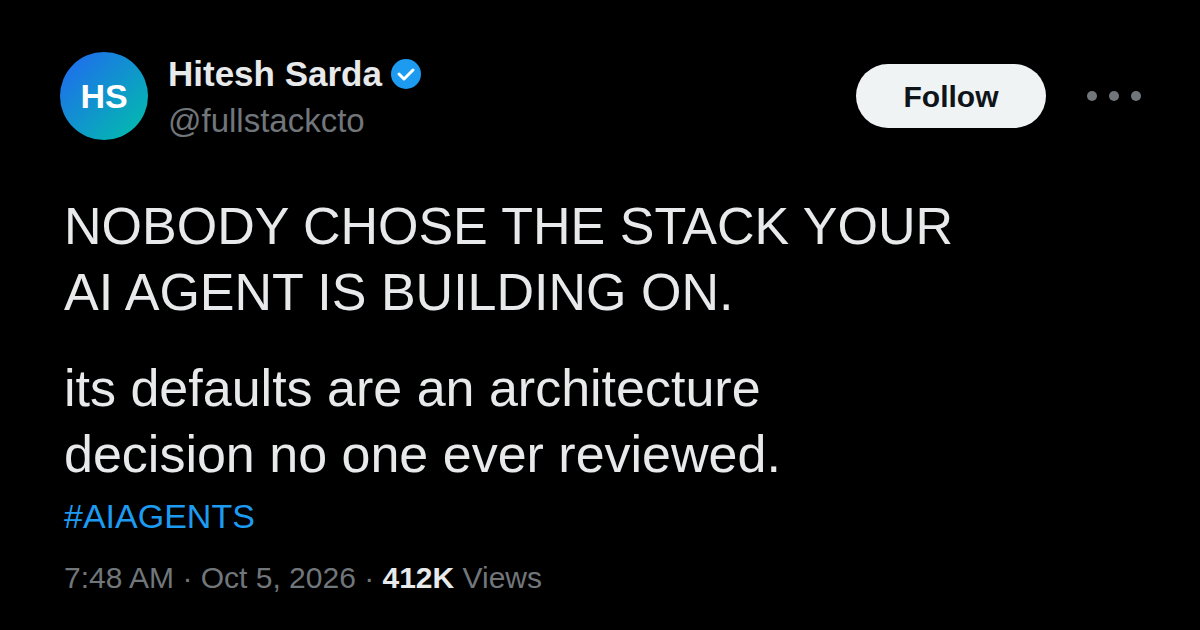
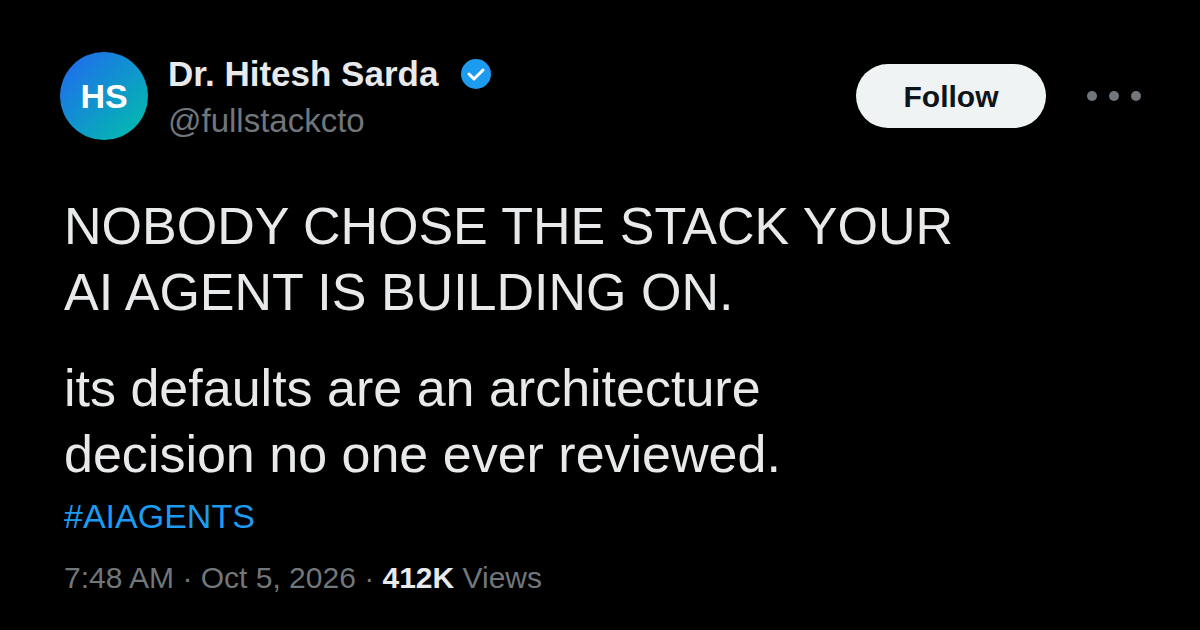
Add Dr. to the author name on site title, home hero, about, book page and cover template
Claude-Session: https://claude.ai/code/session_01KArfLjG9ZUrFgaQKNQHqEH

Changed region(s): [[0.1233, 0.0905, 0.4317, 0.1508]]

diff --git a/themes/hitesh/layouts/book/single.html b/themes/hitesh/layouts/book/single.html
@@ -89,8 +89,8 @@
     <div class="container">
       <div class="book-author-card">
         <h2 class="book-author-title">About the author</h2>
-        <p>Hitesh Sarda is an AI advisor and the founder of 256 Technologies, an applied AI lab in Hyderabad. He has spent 25+ years building production systems, including work at Citi, Virtusa, Yash, and ValueLabs, and has been writing here since 2009.</p>
-        <p><a href="/about/">More about Hitesh</a> &middot; <a href="/work-with-me/">Book an advisory hour</a></p>
+        <p>Dr. Hitesh Sarda is an AI advisor and the founder of 256 Technologies, an applied AI lab in Hyderabad. He has spent 25+ years building production systems, including work at Citi, Virtusa, Yash, and ValueLabs, and has been writing here since 2009.</p>
+        <p><a href="/about/">More about Dr. Hitesh</a> &middot; <a href="/work-with-me/">Book an advisory hour</a></p>
       </div>
     </div>
   </section>

diff --git a/themes/hitesh/layouts/index.html b/themes/hitesh/layouts/index.html
@@ -8,7 +8,7 @@
           <span class="hero-dot"></span>
           AI Advisor &nbsp;&middot;&nbsp; Founder, 256 Technologies
         </p>
-        <h1 class="hero-name">Hitesh<br>Sarda</h1>
+        <h1 class="hero-name">Dr. Hitesh<br>Sarda</h1>
         <p class="hero-bio">
           I help leadership teams cut through AI hype and make evidence-based decisions: what is feasible, what the ROI really is, and the smallest pilot that proves it. 25+ years building production systems, including work at Citi, Virtusa, Yash, and ValueLabs. Today I run 256 Technologies, an applied AI lab in Hyderabad, and I have been writing here since 2009.
         </p>

diff --git a/content/about/index.md b/content/about/index.md
@@ -3,7 +3,7 @@ title: "About"
 draft: false
 ---
 
-I work at the intersection of AI research, practical engineering, and business outcomes — helping leadership teams navigate AI adoption with clarity and confidence.
+I am Dr. Hitesh Sarda. I work at the intersection of AI research, practical engineering, and business outcomes — helping leadership teams navigate AI adoption with clarity and confidence.
 
 My focus is on **Retail, Loyalty, and Industrial domains**, where I lead the advisory for AI implementation and consulting engagements. Each engagement ends with evidence-based recommendations your leadership team can actually act on.
 

diff --git a/content/book/index.md b/content/book/index.md
@@ -11,7 +11,7 @@ download_label: "Get the free PDF"
 format: "PDF"
 chapters_total: 11
 parts_total: 3
-author_name: "Hitesh Sarda"
+author_name: "Dr. Hitesh Sarda"
 endorsement: "If you want to stop experimenting and start delivering real business results with this technology, this is where you start."
 endorser: "Shammik Gupta"
 endorser_title: "CEO, INSORCE"
